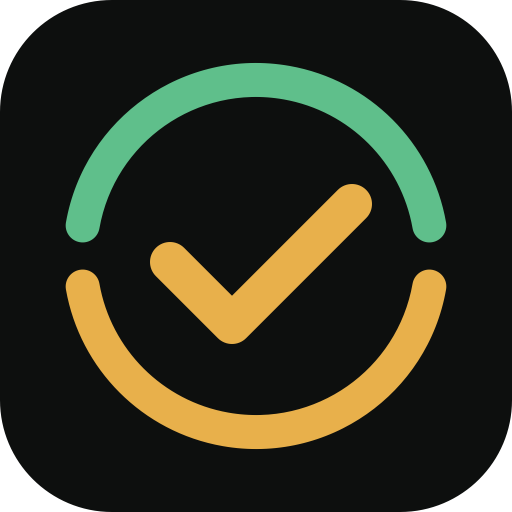
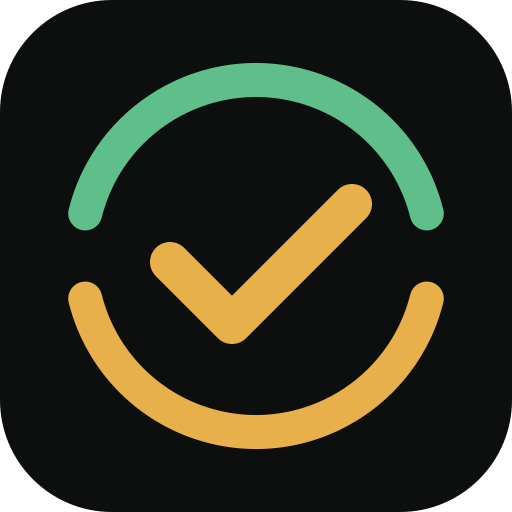
brand: widen ring gaps to 28deg for small-size legibility, add ink/reversed/transparent marks, brand README

Changed region(s): [[0.7812, 0.4062, 0.875, 0.5938], [0.125, 0.4062, 0.2188, 0.5938]]

diff --git a/site/index.html b/site/index.html
@@ -216,7 +216,7 @@
 
 <header>
   <div class="wrap bar">
-    <div class="mark"><svg class="glyph" viewBox="0 0 512 512" aria-hidden="true" width="26" height="26"><path d="M82.7 225.4 A176 176 0 0 1 429.3 225.4" fill="none" stroke="#5fbf8b" stroke-width="34" stroke-linecap="round"/><path d="M429.3 286.6 A176 176 0 0 1 82.7 286.6" fill="none" stroke="#e8b04b" stroke-width="34" stroke-linecap="round"/><path d="M170 262 L232 324 L352 204" fill="none" stroke="#e8b04b" stroke-width="40" stroke-linecap="round" stroke-linejoin="round"/></svg>Pay<b>dlux</b></div>
+    <div class="mark"><svg class="glyph" viewBox="0 0 512 512" aria-hidden="true" width="26" height="26"><path d="M85.2 213.4 A176 176 0 0 1 426.8 213.4" fill="none" stroke="#5fbf8b" stroke-width="34" stroke-linecap="round"/><path d="M426.8 298.6 A176 176 0 0 1 85.2 298.6" fill="none" stroke="#e8b04b" stroke-width="34" stroke-linecap="round"/><path d="M170 262 L232 324 L352 204" fill="none" stroke="#e8b04b" stroke-width="40" stroke-linecap="round" stroke-linejoin="round"/></svg>Pay<b>dlux</b></div>
     <nav>
       <a class="lnk" href="#how">How it works</a>
       <a class="lnk" href="#mandate">Mandates</a>

diff --git a/brand/compose.py b/brand/compose.py
@@ -35,11 +35,12 @@ def font(size, bold=False):
     return ImageFont.load_default()
 
 
-def split_ring_draw(d, cx, cy, r, w, a1=10, a2=170):
-    """Draw the two-arc ring directly (used for large formats)."""
+def split_ring_draw(d, cx, cy, r, w, a1=14, a2=166):
+    """Two arcs with two symmetric gaps = the two signatures the vault needs.
+    PIL angles are clockwise from 3 o'clock. Gaps: a2..a2+20 and a1-20..a1."""
     bbox = [cx-r, cy-r, cx+r, cy+r]
     d.arc(bbox, start=a1, end=a2, fill=GOLD, width=w)
-    d.arc(bbox, start=a2+20, end=a1+360, fill=GREEN, width=w)
+    d.arc(bbox, start=a2+28, end=a1+332, fill=GREEN, width=w)
 
 
 def check_draw(d, cx, cy, scale, w, color):
@@ -51,16 +52,18 @@ def check_draw(d, cx, cy, scale, w, color):
 
 
 def mark_on(size, scale=0.62, bg=INK, radius=None):
-    """Square mark canvas drawn from scratch so it stays crisp at any size."""
-    im = Image.new("RGBA", (size, size), (0,0,0,0))
+    """Square mark canvas drawn from scratch so it stays crisp at any size.
+    Proportions match the SVG: check half-extent = 0.55 x ring radius."""
+    im = Image.new("RGBA", (size, size), (0, 0, 0, 0))
     d = ImageDraw.Draw(im)
-    r = radius if radius is not None else int(size*0.18)
-    d.rounded_rectangle([0,0,size-1,size-1], radius=r, fill=bg)
-    cx = cy = size/2
-    ring = size*scale/2
-    w = max(2, int(ring*0.19))
+    r = radius if radius is not None else int(size * 0.18)
+    d.rounded_rectangle([0, 0, size - 1, size - 1], radius=r, fill=bg)
+    cx = cy = size / 2
+    ring = size * scale / 2
+    w = max(2, int(ring * 0.19))
     split_ring_draw(d, cx, cy, ring, w)
-    check_draw(d, cx, cy, scale/0.72, max(2, int(size*0.09)), GOLD)
+    s = 0.55 * ring / 96.0          # check spans +/-96 in the 512-space points
+    check_draw(d, cx, cy, s, max(2, int(size * 0.078)), GOLD)
     return im
 
 
@@ -99,6 +102,6 @@ d.text((74, 520), "Spending mandates enforced on the Stellar ledger  ·  paydlux
 o.save("deliverables/og-image-1200x630.png")
 
 print("deliverables:")
-for f in sorted(glob.glob("deliverables/*")):
+for f in sorted(glob.glob("deliverables/*.png")):
     im = Image.open(f)
     print(f"  {f:38s} {im.size[0]}x{im.size[1]}  {os.path.getsize(f)//1024} KB")

diff --git a/brand/make_logos.py b/brand/make_logos.py
@@ -32,10 +32,11 @@ def tile(inner=INK):
 
 
 def split_ring(r=176, w=34):
-    """Two arcs, two symmetric gaps: the two signatures the vault needs."""
-    return (f'<path d="{arc(r, 10, 170)}" fill="none" stroke="{GOLD}" '
+    """Two arcs, two symmetric 28deg gaps: the two signatures the vault needs.
+    28deg survives the round line-caps down to 24px."""
+    return (f'<path d="{arc(r, 14, 166)}" fill="none" stroke="{GOLD}" '
             f'stroke-width="{w}" stroke-linecap="round"/>'
-            f'<path d="{arc(r, 190, 350)}" fill="none" stroke="{GREEN}" '
+            f'<path d="{arc(r, 194, 346)}" fill="none" stroke="{GREEN}" '
             f'stroke-width="{w}" stroke-linecap="round"/>')
 
 

diff --git a/brand/README.md b/brand/README.md
@@ -1,0 +1,43 @@
+# Paydlux brand kit
+
+The mark is a **coin split into two arcs** — one gold, one green. The two arcs are
+the two signatures the vault needs: the agent asks, the human signs. Nothing is
+released with one. The check inside is the approval.
+
+That is the whole idea: a payment that cannot complete alone.
+
+## Files
+
+| File | Use it for |
+|---|---|
+| `deliverables/profile-400.png` | **X / GitHub / Zoho profile picture** (400×400, what X asks for) |
+| `deliverables/profile-1024.png` | Master square, upload anywhere that wants bigger |
+| `deliverables/profile-128.png` | Fallback tiny |
+| `deliverables/x-banner-1500x500.png` | X header image (exact X size) |
+| `deliverables/og-image-1200x630.png` | Link previews — also live at `https://paydlux.com/og-image.png` |
+| `deliverables/mark-color.svg` | The mark, scalable, for docs and slides |
+| `deliverables/mark-ink.svg` | One-colour dark, for print / invoices / white paper |
+| `deliverables/mark-reversed.svg` | One-colour light, for dark backgrounds |
+| `deliverables/mark-transparent.svg` | No tile, for overlays |
+| `deliverables/logo-lockup.svg` | Mark + wordmark + tagline, horizontal |
+| `out/a-coin-check.png` | 512px raster of the master mark |
+
+## Rules (keep it consistent)
+
+- Dark tile background: `#0d0f0e`. Never put the colour mark on a light photo.
+- Gold `#e8b04b` = the money. Green `#5fbf8b` = the human approval. Keep that meaning.
+- Wordmark: `Pay` in ink/paper, `dlux` in gold. Serif face (Instrument Serif on the site).
+- Minimum size for the mark: 24px on screen, 6mm in print. Below that use the
+  transparent version without the tile.
+- Never recolour the arcs to the same hue except in the one-colour versions.
+- Clear space: keep at least the height of the check mark empty around the tile.
+
+## Regenerate everything
+
+```
+python3 make_logos.py     # writes out/*.svg
+python3 compose.py        # writes deliverables/*.png  (needs Pillow)
+```
+
+`compose.py` runs on the Hermes venv python (has Pillow):
+`$(ls /Users/z-b/.hermes/installs/*/environments/*/venv/bin/python3 | head -1) compose.py`
